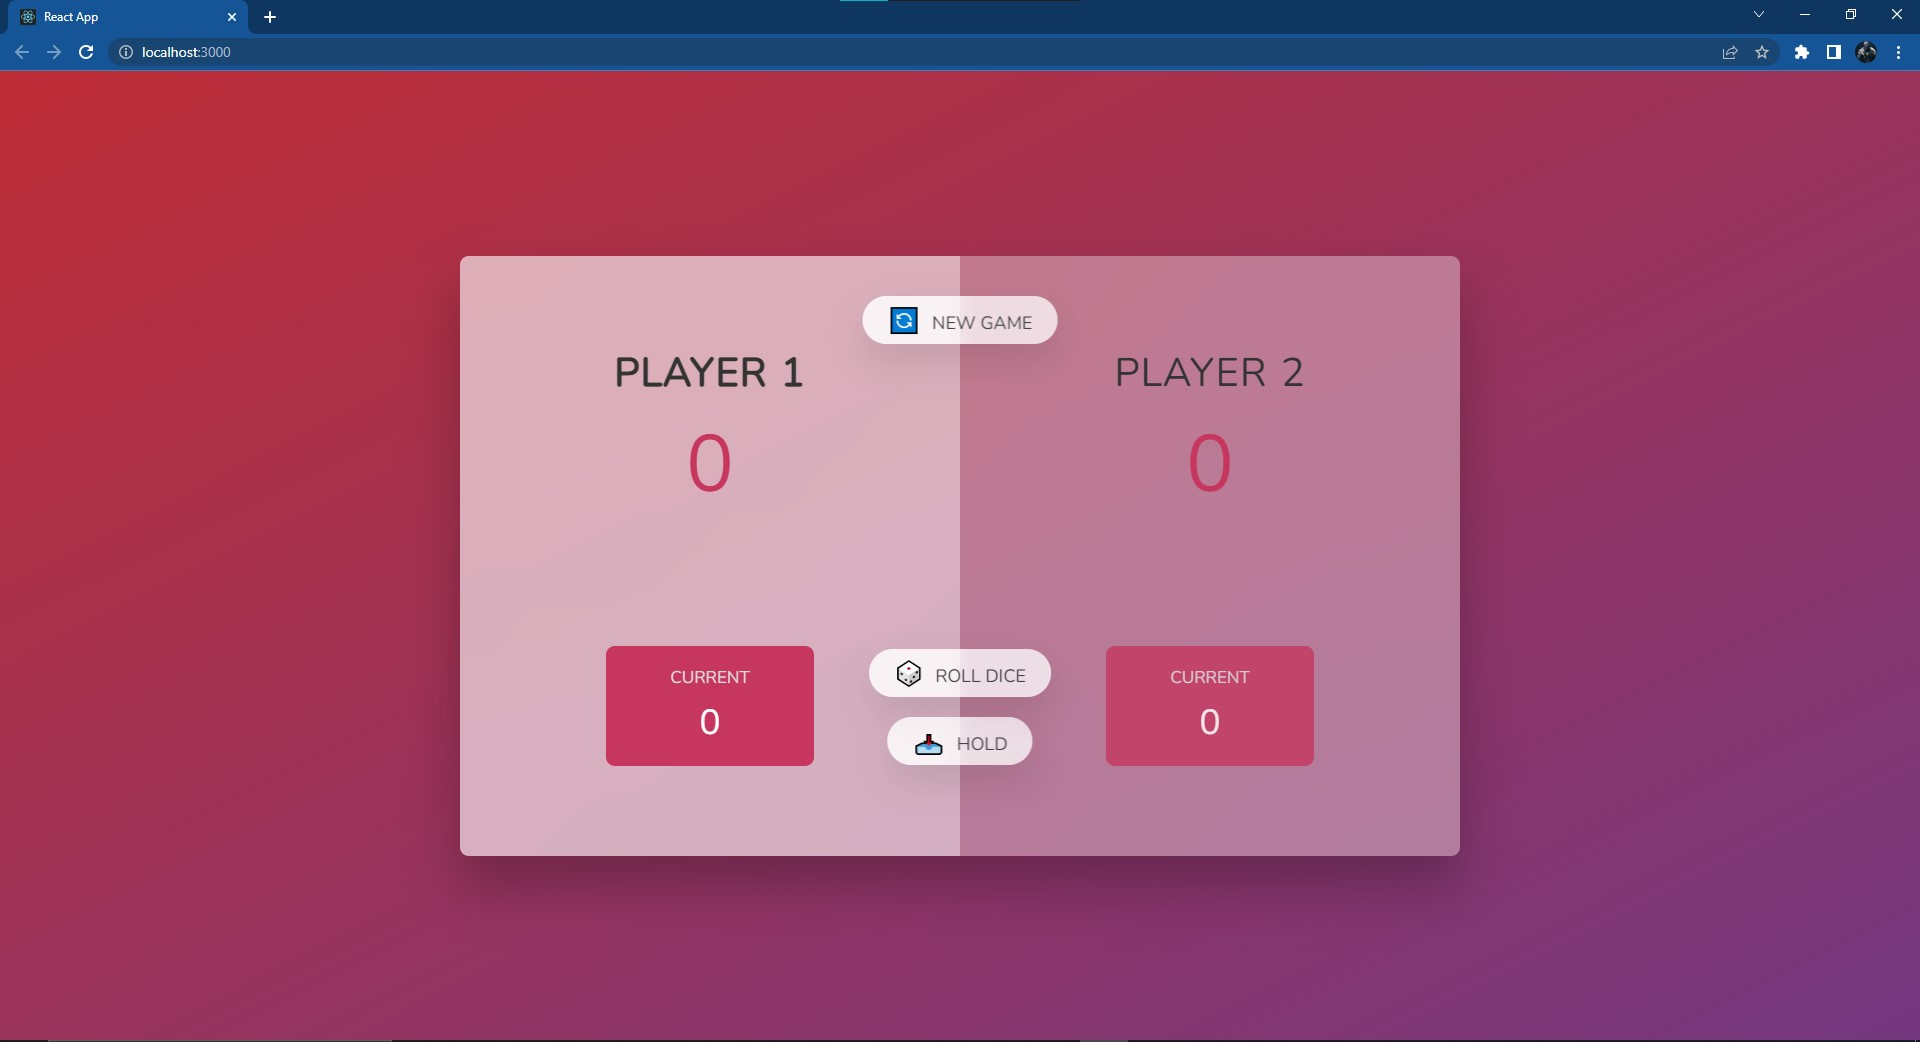
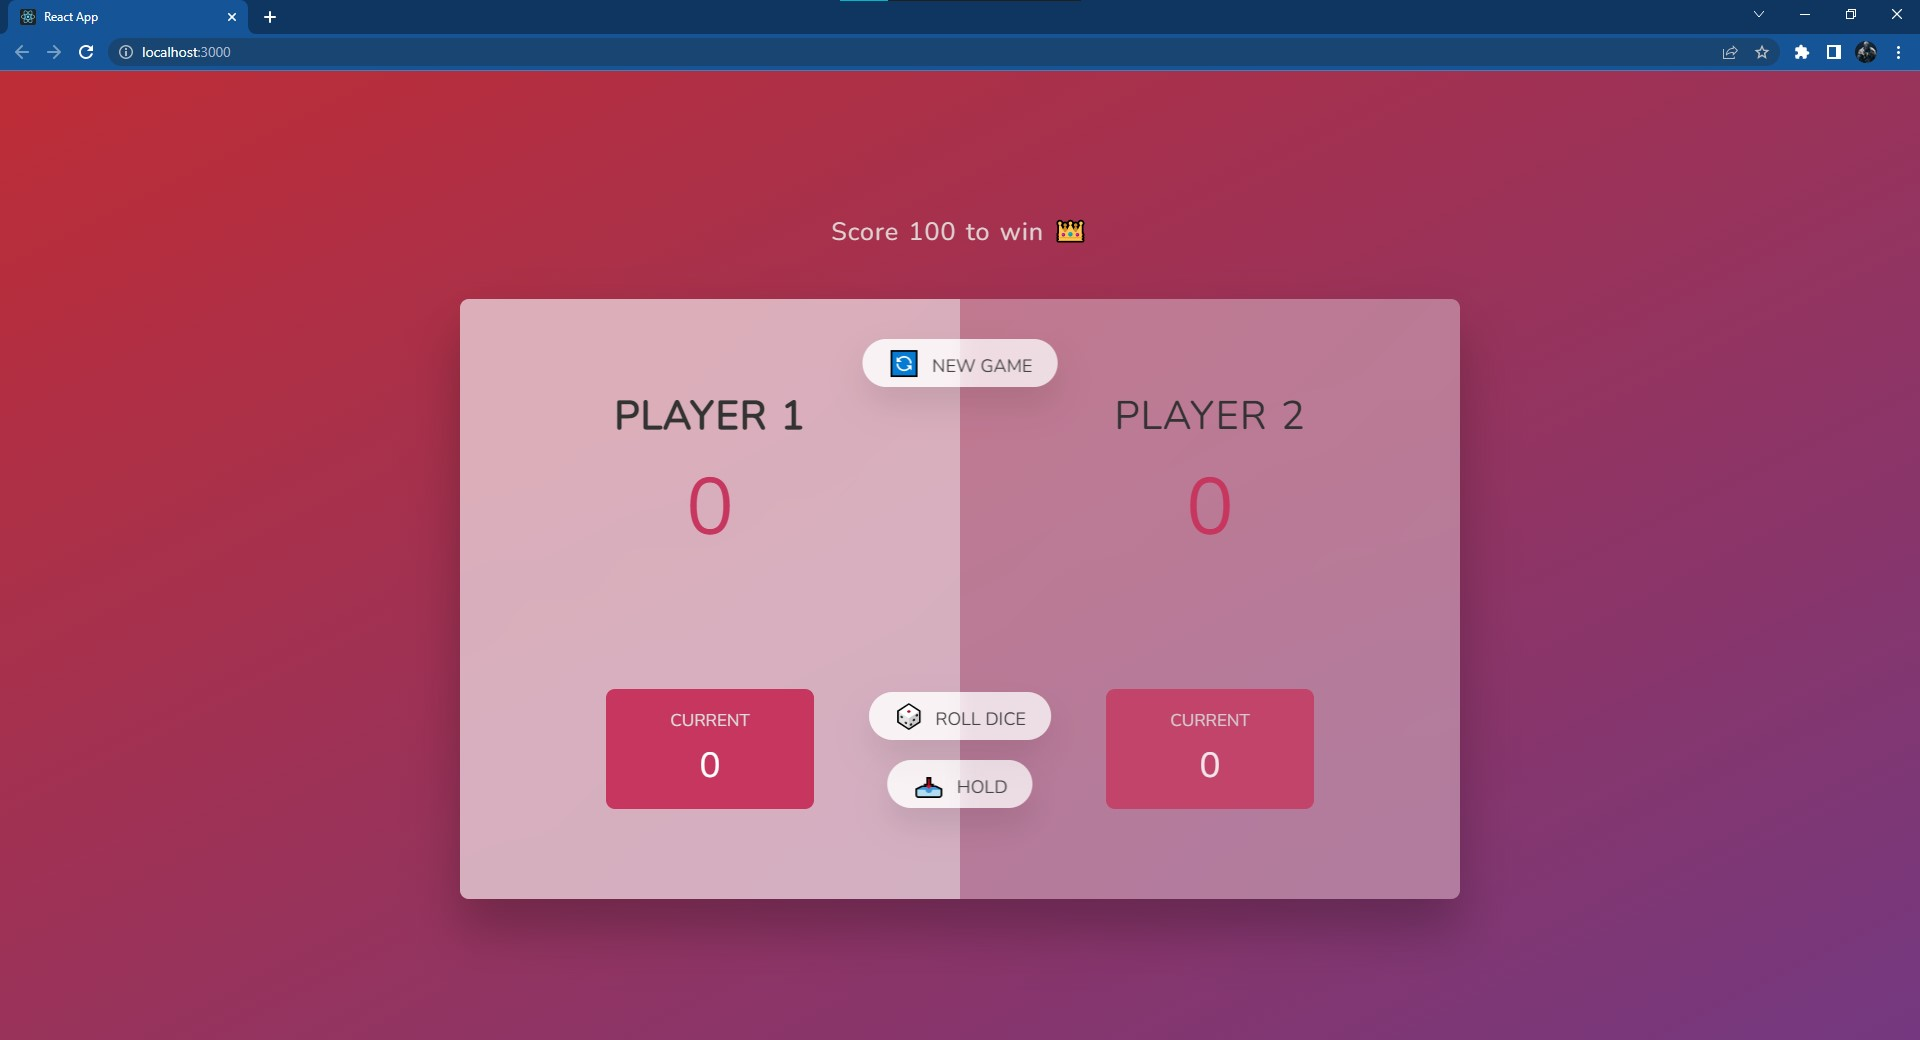
some imporvements

Changed region(s): [[0.2188, 0.6154, 0.7812, 0.8923], [0.2188, 0.2154, 0.7812, 0.5231], [0.0, 0.9846, 1.0, 1.0]]

diff --git a/src/App.js b/src/App.js
@@ -16,6 +16,7 @@ function App() {
   const [diceNumber, setDiceNumber] = useState(0);
   const [playing, setPlaying] = useState(true);
   const [newGame, setNewGame] = useState(0);
+  const scoreLimit = 100;
 
   useEffect(() => {
     setScores0(0);
@@ -59,7 +60,7 @@ function App() {
       }
 
       // if (scores0 >= 10 || scores1 >= 10)
-      if (tempScore0 >= 100 || tempScore1 >= 100) {
+      if (tempScore0 >= scoreLimit || tempScore1 >= scoreLimit) {
         //we have our winner
         const playerWon = activePlayer + 1;
         setWinner(playerWon);
@@ -80,7 +81,9 @@ function App() {
 
   return (
     <>
-      {playing && <h1 className="winning_description">Score 100 to win 👑</h1>}
+      <h1 className="winning_description">
+        {winner === 3 ? `Score ${scoreLimit} to win 👑` : "Congratulations 🎉"}
+      </h1>
       <Main>
         <PlayerCard
           user={1}

diff --git a/src/App.css b/src/App.css
@@ -2,37 +2,8 @@
   text-align: center;
 }
 
-.App-logo {
-  height: 40vmin;
-  pointer-events: none;
-}
-
 @media (prefers-reduced-motion: no-preference) {
   .App-logo {
     animation: App-logo-spin infinite 20s linear;
-  }
-}
-
-.App-header {
-  background-color: #282c34;
-  min-height: 100vh;
-  display: flex;
-  flex-direction: column;
-  align-items: center;
-  justify-content: center;
-  font-size: calc(10px + 2vmin);
-  color: white;
-}
-
-.App-link {
-  color: #61dafb;
-}
-
-@keyframes App-logo-spin {
-  from {
-    transform: rotate(0deg);
-  }
-  to {
-    transform: rotate(360deg);
   }
 }

diff --git a/src/index.css b/src/index.css
@@ -29,10 +29,6 @@ code {
     monospace;
 }
 
-.hidden {
-  display: none;
-}
-
 button {
   position: absolute;
   left: 50%;
@@ -76,7 +72,7 @@ button:focus {
 }
 
 .winning_description {
-  font-size: 2rem;
+  font-size: 2.5rem;
   letter-spacing: 1px;
   word-spacing: 2px;
   font-weight: 100;
